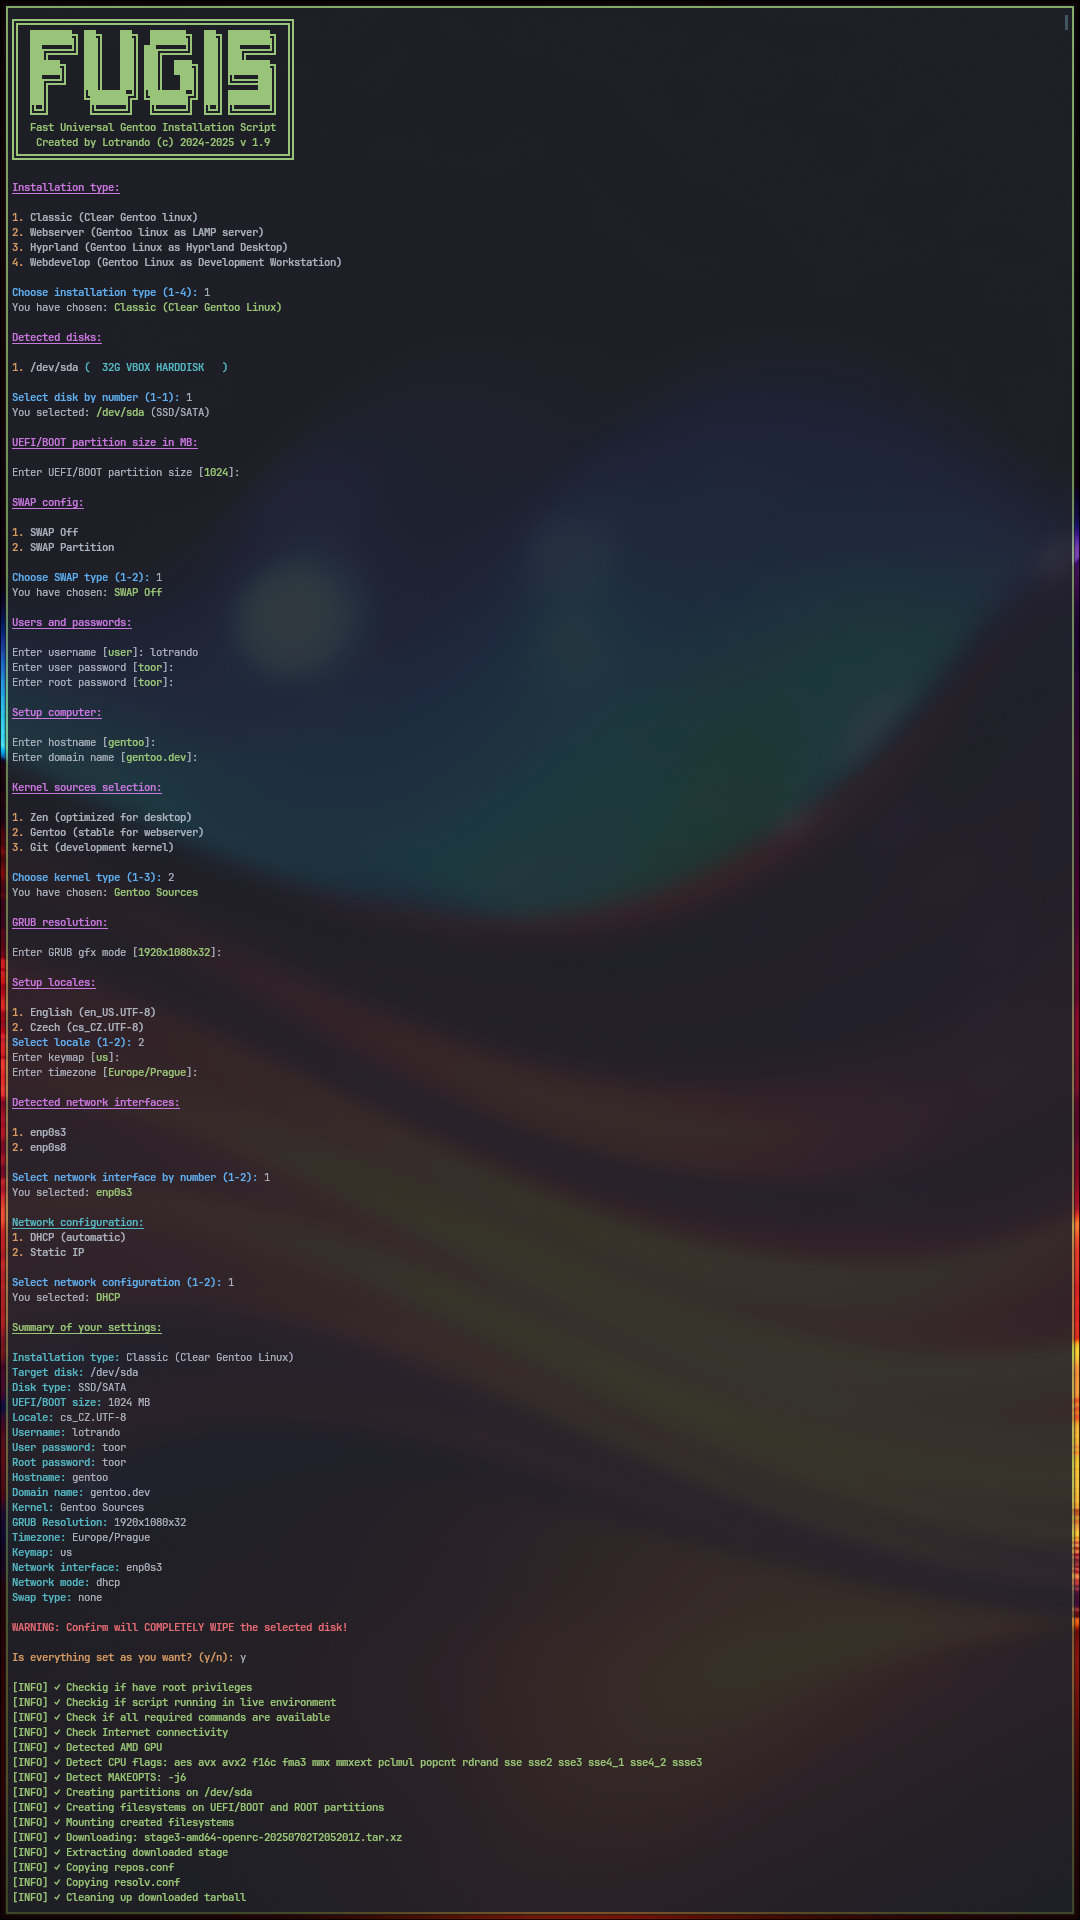
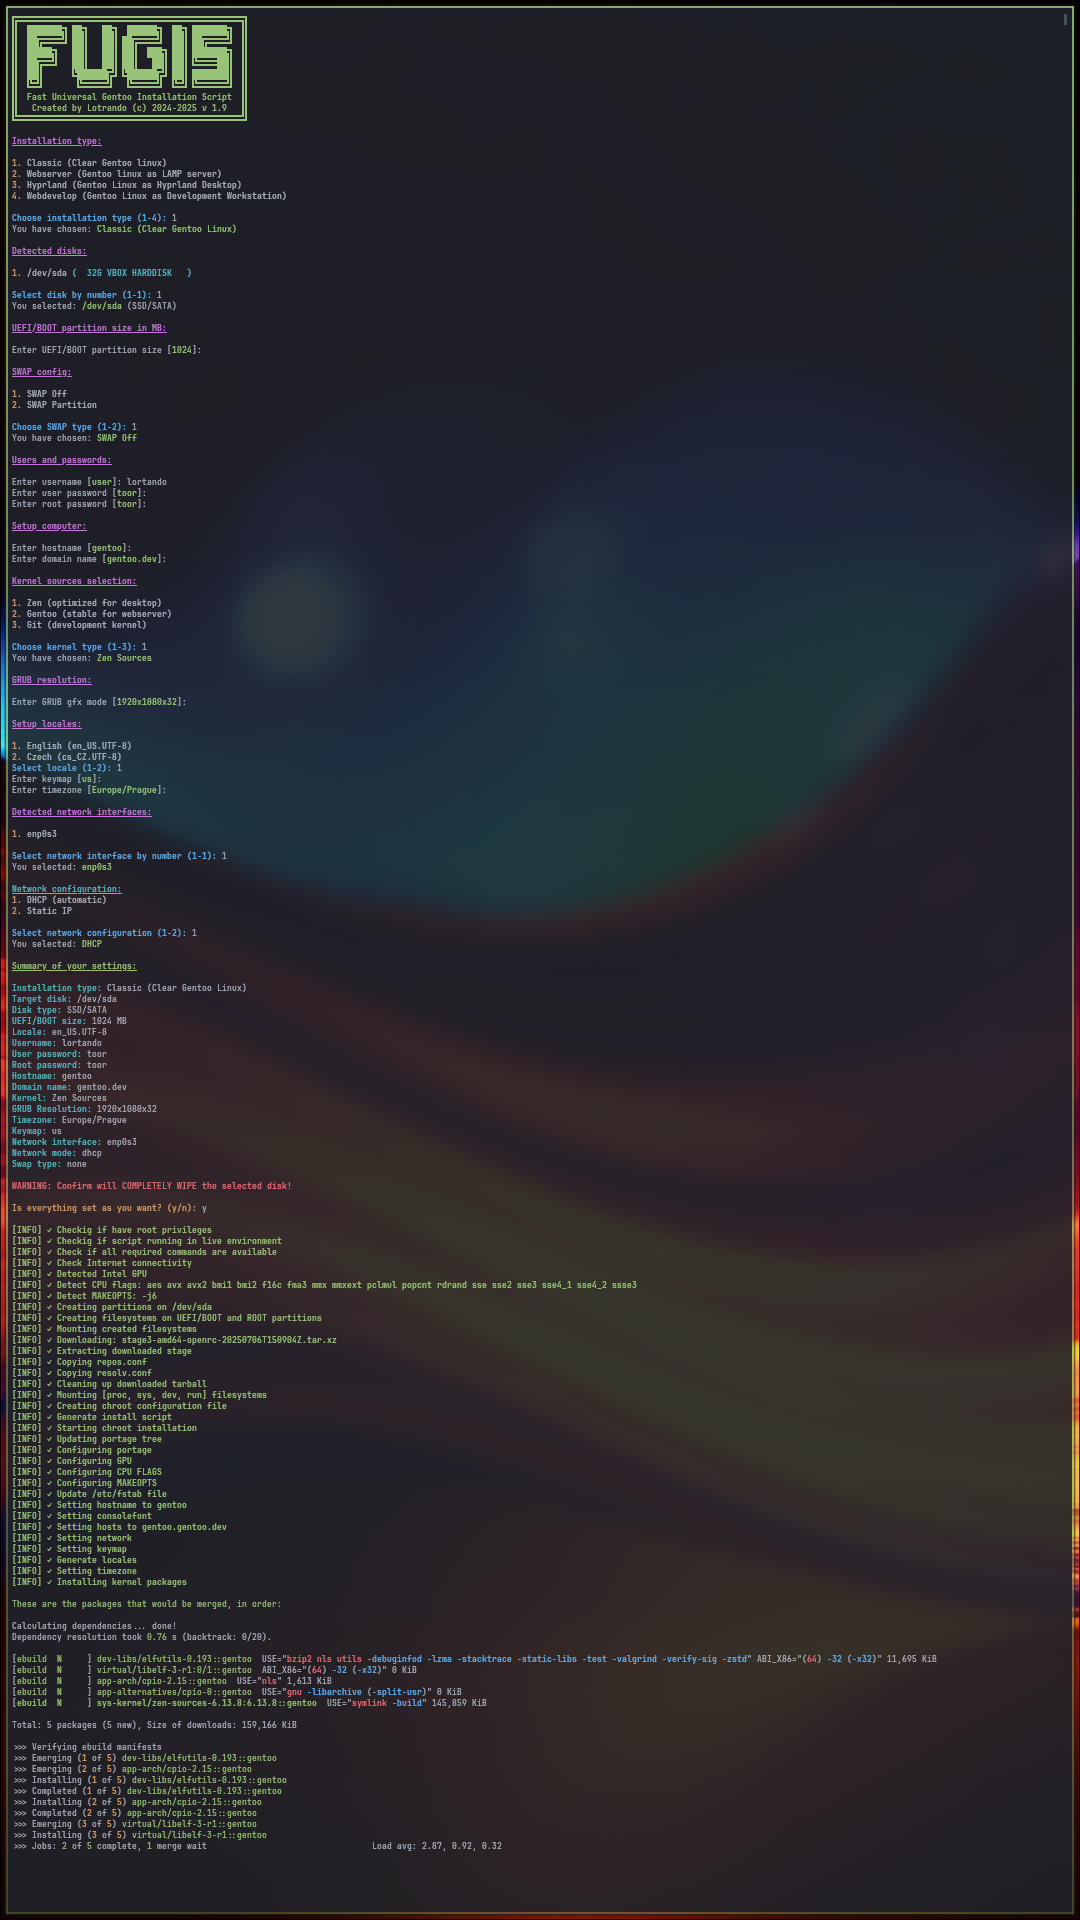
Update

Changed region(s): [[0.0, 0.0, 0.4278, 1.0]]

diff --git a/README.md b/README.md
@@ -29,18 +29,23 @@ wget https://raw.githubusercontent.com/lotrando/fugis-gentoo-installer/refs/head
 ```
 chmod +x installer.sh && ./installer.sh
 ```
-
-### Installation procedure
-- setup script variables and run installer
-- it will take some time to compile the kernel and packages
-- reboot and use new clear Gentoo linux
-
+---
+### Maximized output window screenshot
 <img src="screen.png" alt="Screenshot of settings before instalation procedure" />
 
 ### Installation steps
+- Choose some variables to setup script
+- it will take some time to compile the kernel and packages
+- reboot and use new clear Gentoo linux
+-
 ```
 ╔═════════════════════════════════════════════╗
-║                - F U G I S -                ║
+║  ███████╗ ██╗   ██╗  ██████╗  ██╗ ███████╗  ║
+║  ██╔════╝ ██║   ██║ ██╔════╝  ██║ ██╔════╝  ║
+║  █████╗   ██║   ██║ ██║  ███╗ ██║ ███████╗  ║
+║  ██╔══╝   ██║   ██║ ██║   ██║ ██║ ╚════██║  ║
+║  ██║      ╚██████╔╝ ╚██████╔╝ ██║ ███████║  ║
+║  ╚═╝       ╚═════╝   ╚═════╝  ╚═╝ ╚══════╝  ║
 ║  Fast Universal Gentoo Installation Script  ║
 ║   Created by Lotrando (c) 2024-2025 v 1.9   ║
 ╚═════════════════════════════════════════════╝
